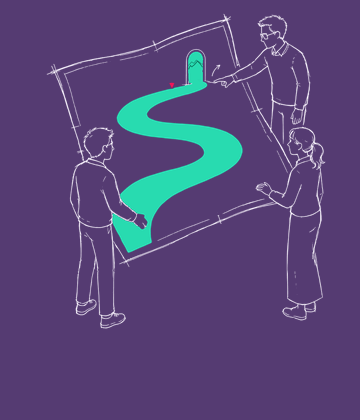
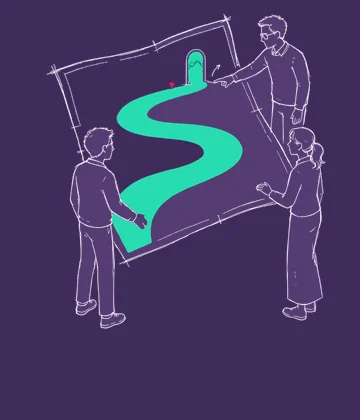
Recolor the nav and widen the Apply button.
The bar and the For Advisors card use #3e2c5a, and the nav Apply button extends 14px on the right.

diff --git a/src/styles/home.css b/src/styles/home.css
@@ -3452,7 +3452,7 @@ header.nav .nav-mega-card {
   height: 420px;
   overflow: hidden;
   border-radius: 16px;
-  background: #553b72;
+  background: #3e2c5a;
   text-decoration: none;
 }
 
@@ -3614,7 +3614,7 @@ header.nav .nav-apply {
   gap: 8px;
   flex: 0 0 auto;
   min-height: 64px;
-  padding: 8px 10px 8px 18px;
+  padding: 8px 24px 8px 18px;
   border-radius: 16px;
   background: #ea1557;
   color: #fff;
@@ -4334,7 +4334,7 @@ header.nav {
 
 header.nav .nav-bar,
 header.nav .nav-panel {
-  background: #553b72;
+  background: #3e2c5a;
 }
 
 header.nav .nav-links {
@@ -4385,7 +4385,7 @@ header.nav .nav-apply:focus-visible::before {
 
   header.nav {
     padding-left: var(--nav-inset);
-    padding-right: var(--nav-inset);
+    padding-right: calc(var(--nav-inset) - 14px);
   }
 
   header.nav .nav-links {
